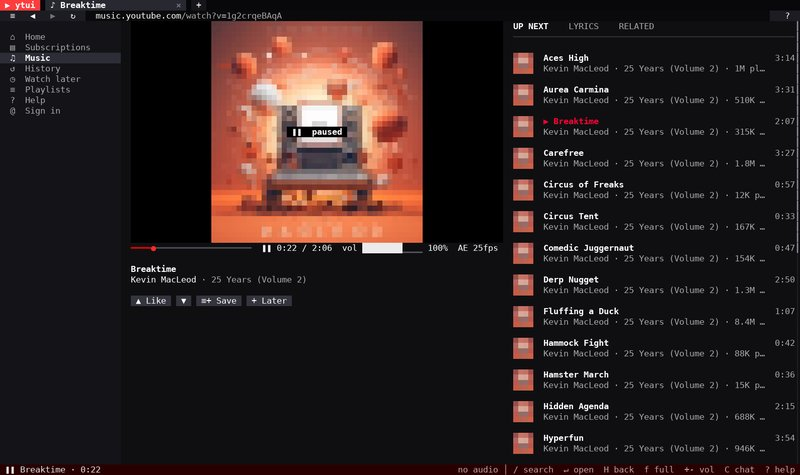
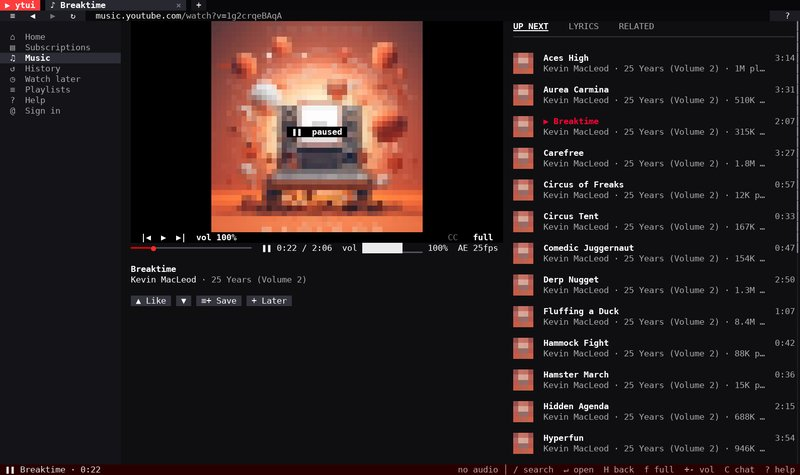
Screenshots and SEO tags show the player controls (#12)
* Screenshots and SEO tags show the player controls

Retake the half-block (Big Buck Bunny), captions (Sintel) and music
player (Breaktime, Kevin MacLeod) screenshots paused, so the controls
show on the video, and rebuild the social preview from the new
half-block shot. Alt text and captions follow the new pictures.

Meta and og descriptions, the JSON-LD description, features and
screenshots, the site description, and the Playback and Keys page
descriptions now mention the player controls. A feature card, a FAQ
entry (visible and in FAQPage) and a README bullet describe them. Doc
pages get og:image size and alt tags.

* Name the keys the player controls have; previous has none

* Page titles: home 60 chars, docs index 18

---------

Changed region(s): [[0.25, 0.4716, 0.5312, 0.5305], [0.5938, 0.4716, 0.625, 0.5305], [0.6562, 0.0589, 0.6875, 0.0884]]

diff --git a/docs/index.html b/docs/index.html
@@ -6,8 +6,8 @@ layout: null
 <head>
 <meta charset="utf-8">
 <meta name="viewport" content="width=device-width, initial-scale=1">
-<title>ytui: watch YouTube in the terminal (TUI client for Windows, Linux, macOS)</title>
-<meta name="description" content="ytui is a free, open-source terminal YouTube and YouTube Music client. Search and watch YouTube in your terminal as 24-bit colour half blocks, at 60 fps. Windows, Linux and macOS.">
+<title>ytui: watch YouTube in the terminal on Windows, Linux, macOS</title>
+<meta name="description" content="Free, open-source YouTube and YouTube Music in the terminal: 60 fps video in 24-bit colour, with YouTube-style player controls. Windows, Linux and macOS.">
 <link rel="canonical" href="https://bong-water-water-bong.github.io/ytui/">
 <meta name="theme-color" content="#e8eaee" media="(prefers-color-scheme: light)">
 <meta name="theme-color" content="#16181d" media="(prefers-color-scheme: dark)">
@@ -15,14 +15,14 @@ layout: null
 <meta property="og:type" content="website">
 <meta property="og:site_name" content="ytui">
 <meta property="og:title" content="ytui: watch YouTube in the terminal">
-<meta property="og:description" content="A terminal YouTube client. Play video as 24-bit colour half blocks at 60 fps, on Windows, Linux and macOS.">
+<meta property="og:description" content="A terminal YouTube and YouTube Music client. Play 60 fps video as 24-bit colour half blocks, with YouTube-style player controls, on Windows, Linux and macOS.">
 <meta property="og:url" content="https://bong-water-water-bong.github.io/ytui/">
 <meta property="og:image" content="https://bong-water-water-bong.github.io/ytui/social-preview.jpg">
 <meta property="og:image:width" content="1280">
 <meta property="og:image:height" content="640">
-<meta property="og:image:alt" content="ytui playing Big Buck Bunny as 24-bit colour half blocks in a terminal">
+<meta property="og:image:alt" content="ytui playing Big Buck Bunny as 24-bit colour half blocks in a terminal, paused with the player controls showing">
 <meta name="twitter:card" content="summary_large_image">
-<meta name="twitter:image:alt" content="ytui playing Big Buck Bunny as 24-bit colour half blocks in a terminal">
+<meta name="twitter:image:alt" content="ytui playing Big Buck Bunny as 24-bit colour half blocks in a terminal, paused with the player controls showing">
 
 <link rel="preconnect" href="https://fonts.googleapis.com">
 <link rel="preconnect" href="https://fonts.gstatic.com" crossorigin>
@@ -34,7 +34,7 @@ layout: null
   "@type": "SoftwareApplication",
   "name": "ytui",
   "alternateName": "YouTube TUI",
-  "description": "A terminal YouTube client: search, browse and watch YouTube in the terminal as 24-bit colour half blocks, at up to 60 fps.",
+  "description": "A terminal YouTube and YouTube Music client: search, browse and watch YouTube in the terminal as 24-bit colour half blocks, at up to 60 fps, with YouTube-style player controls.",
   "applicationCategory": "MultimediaApplication",
   "applicationSubCategory": "Video player",
   "operatingSystem": "Windows 10, Windows 11, Linux, macOS",
@@ -46,7 +46,8 @@ layout: null
   "screenshot": [
     "https://bong-water-water-bong.github.io/ytui/screenshots/home.jpg",
     "https://bong-water-water-bong.github.io/ytui/screenshots/halfblock.jpg",
-    "https://bong-water-water-bong.github.io/ytui/screenshots/captions.jpg"
+    "https://bong-water-water-bong.github.io/ytui/screenshots/captions.jpg",
+    "https://bong-water-water-bong.github.io/ytui/screenshots/music-player.jpg"
   ],
   "softwareVersion": "2026.10.17",
   "datePublished": "2026-10-16",
@@ -56,6 +57,7 @@ layout: null
   "featureList": [
     "Watch YouTube in the terminal as 24-bit colour half blocks",
     "60 fps playback through ffmpeg",
+    "YouTube-style player controls on the video: previous, play/pause, next, mute, captions and fullscreen",
     "Home, Trending, search, channels, playlists, comments and live chat",
     "YouTube Music: Home, Explore, charts, search, artists, albums, library, queue and lyrics",
     "Captions, autoplay, tabs and watch later",
@@ -90,6 +92,11 @@ layout: null
       "@type": "Question",
       "name": "Does ytui need a YouTube account or API key?",
       "acceptedAnswer": { "@type": "Answer", "text": "No. Searching, browsing and watching work signed out with no API key. Signing in with Google is optional and adds your recommendations, subscriptions, playlists, likes and comments." }
+    },
+    {
+      "@type": "Question",
+      "name": "Can I control playback with the mouse?",
+      "acceptedAnswer": { "@type": "Answer", "text": "Yes. Move the mouse over the video and ytui shows YouTube-style controls on it: previous, play/pause, next, mute, captions and fullscreen. Click the progress bar to seek and drag the volume slider. The keyboard works too: space pauses, comma and period seek, and f goes fullscreen." }
     },
     {
       "@type": "Question",
@@ -181,11 +188,11 @@ layout: null
       <p class="sub">Each cell is a truecolour half block: two pixels, one above the other. ytui sends only the cells that changed and sizes each frame to what your terminal can keep up with, so fast motion gets slightly coarser instead of dropping frames. <a href="guide/render-modes/">How it works</a>.</p>
       <div class="gallery">
         <figure>
-          <div class="frame"><img src="screenshots/halfblock.jpg" srcset="screenshots/halfblock-800.jpg 800w, screenshots/halfblock.jpg 1580w" decoding="async" sizes="(max-width: 860px) calc(100vw - 46px), 570px" width="1580" height="945" loading="lazy" alt="Big Buck Bunny's ear in front of an apple tree, drawn as half blocks, fullscreen and paused, with the player bar at the bottom"></div>
-          <figcaption><strong>Half blocks.</strong> Fullscreen and paused, with the player bar at the bottom.</figcaption>
+          <div class="frame"><img src="screenshots/halfblock.jpg" srcset="screenshots/halfblock-800.jpg 800w, screenshots/halfblock.jpg 1580w" decoding="async" sizes="(max-width: 860px) calc(100vw - 46px), 570px" width="1580" height="945" loading="lazy" alt="Big Buck Bunny sitting in a meadow, drawn as half blocks, fullscreen and paused, with the player controls and the player bar at the bottom"></div>
+          <figcaption><strong>Half blocks.</strong> Fullscreen and paused, with the player controls and the player bar at the bottom.</figcaption>
         </figure>
         <figure>
-          <div class="frame"><img src="screenshots/captions.jpg" srcset="screenshots/captions-800.jpg 800w, screenshots/captions.jpg 1580w" decoding="async" sizes="(max-width: 860px) calc(100vw - 46px), 570px" width="1580" height="945" loading="lazy" alt="Sintel fullscreen in a firelit close-up, with the English caption “You’re a fool for traveling alone, so completely unprepared.” in a black box"></div>
+          <div class="frame"><img src="screenshots/captions.jpg" srcset="screenshots/captions-800.jpg 800w, screenshots/captions.jpg 1580w" decoding="async" sizes="(max-width: 860px) calc(100vw - 46px), 570px" width="1580" height="945" loading="lazy" alt="Sintel fullscreen in a firelit close-up, with the English caption “You’re a fool for traveling alone, so completely unprepared.” in a black box, and the player controls below it"></div>
           <figcaption><strong>Captions.</strong> Bold white text in a solid black box. The first press of <kbd>S</kbd> picks your system language.</figcaption>
         </figure>
       </div>
@@ -200,6 +207,7 @@ layout: null
         <div><dt>YouTube Music</dt><dd>The <a href="guide/youtube-music/">Music</a> link opens YouTube Music in ytui: Home, Explore, charts, moods and genres, search, artists, albums, your library, and a music player with a queue, lyrics and related songs.</dd></div>
         <div><dt>Search, channels and playlists</dt><dd>Press <kbd>/</kbd> to search or paste a URL. Open channels, playlists, comments and live chat.</dd></div>
         <div><dt>60 fps playback through ffmpeg</dt><dd>Streams up to 720p by default, the lowest height YouTube serves at 60 fps.</dd></div>
+        <div><dt>Player controls</dt><dd>Move the mouse over the video for YouTube-style controls: previous, play/pause, next, mute, captions and fullscreen. Click the progress bar to seek, or drag the volume slider. Most have keys too: <kbd>space</kbd>, <kbd>n</kbd>, <kbd>M</kbd>, <kbd>S</kbd> and <kbd>f</kbd>.</dd></div>
         <div><dt>Captions</dt><dd>Press <kbd>S</kbd> for captions in your system language, then again to go through the other tracks. ytui draws them in a black box over the video, and your language choice is remembered for later videos.</dd></div>
         <div><dt>Optional Google sign-in</dt><dd>See your recommendations, subscriptions and playlists, and like and comment. Signing in also keeps videos playing when YouTube asks you to "confirm you're not a bot".</dd></div>
         <div><dt>Works over SSH and in tmux</dt><dd>ytui runs in any truecolour terminal. Inside tmux without truecolour, it tells you the one line to add to <code>~/.tmux.conf</code>.</dd></div>
@@ -235,6 +243,10 @@ layout: null
         <details>
           <summary>Does ytui need a YouTube account or API key?</summary>
           <p>No. Searching, browsing and watching work signed out, with no API key. Signing in with Google is optional. It adds your recommendations, subscriptions, playlists, likes and comments.</p>
+        </details>
+        <details>
+          <summary>Can I control playback with the mouse?</summary>
+          <p>Yes. Move the mouse over the video and ytui shows YouTube-style controls on it: previous, play/pause, next, mute, captions and fullscreen. Click the progress bar to seek and drag the volume slider. The keyboard works too: <kbd>space</kbd> pauses, <kbd>,</kbd> and <kbd>.</kbd> seek, and <kbd>f</kbd> goes fullscreen. See <a href="guide/playback/#player-controls">player controls</a>.</p>
         </details>
         <details>
           <summary>Which terminals does ytui work in?</summary>

diff --git a/docs/_layouts/doc.html b/docs/_layouts/doc.html
@@ -9,6 +9,10 @@
 <meta name="theme-color" content="#e8eaee" media="(prefers-color-scheme: light)">
 <meta name="theme-color" content="#16181d" media="(prefers-color-scheme: dark)">
 <meta property="og:image" content="{{ '/social-preview.jpg' | absolute_url }}">
+<meta property="og:image:width" content="1280">
+<meta property="og:image:height" content="640">
+<meta property="og:image:alt" content="ytui playing Big Buck Bunny as 24-bit colour half blocks in a terminal, paused with the player controls showing">
+<meta name="twitter:image:alt" content="ytui playing Big Buck Bunny as 24-bit colour half blocks in a terminal, paused with the player controls showing">
 <link rel="preconnect" href="https://fonts.googleapis.com">
 <link rel="preconnect" href="https://fonts.gstatic.com" crossorigin>
 <link href="https://fonts.googleapis.com/css2?family=Instrument+Sans:wght@400;600&family=Martian+Mono:wdth,wght@87.5,500;100,700&display=swap" rel="stylesheet">

diff --git a/README.md b/README.md
@@ -10,10 +10,10 @@ one small Rust binary, with yt-dlp and ffmpeg doing the heavy lifting.
 ![ytui's Home page, signed out, showing the Trending feed as a grid of half-block thumbnails](docs/screenshots/home.jpg)
 *Home, signed out: the Trending feed, with thumbnails drawn as half blocks.*
 
-![Big Buck Bunny's ear in front of an apple tree, drawn as half blocks, fullscreen and paused, with the player bar at the bottom](docs/screenshots/halfblock.jpg)
+![Big Buck Bunny sitting in a meadow, drawn as half blocks, fullscreen and paused, with the player controls and the player bar at the bottom](docs/screenshots/halfblock.jpg)
 *Fullscreen and paused: each cell is a `▀` half block, two pixels in 24-bit colour.*
 
-![Sintel fullscreen in a firelit close-up, with the English caption “You’re a fool for traveling alone, so completely unprepared.” in a black box](docs/screenshots/captions.jpg)
+![Sintel fullscreen in a firelit close-up, with the English caption “You’re a fool for traveling alone, so completely unprepared.” in a black box, and the player controls below it](docs/screenshots/captions.jpg)
 *Captions (`S`): bold white text in a solid black box, in your system language.*
 
 <sub>The half-block screenshot shows [Big Buck Bunny](https://peach.blender.org/), © Blender Foundation, licensed [CC BY 3.0](https://creativecommons.org/licenses/by/3.0/). The captions screenshot shows [Sintel](https://durian.blender.org/), © Blender Foundation, licensed [CC BY 3.0](https://creativecommons.org/licenses/by/3.0/).</sub>
@@ -24,6 +24,7 @@ one small Rust binary, with yt-dlp and ffmpeg doing the heavy lifting.
 - **60 fps playback through ffmpeg:** streams up to 720p, the lowest height YouTube serves at 60 fps.
 - **YouTube's layout, in the terminal:** Home with Trending, Music, Gaming, News and more. Also search, channels, playlists, comments and live chat.
 - **YouTube Music:** the Music link opens music.youtube.com in ytui: Home, Explore, charts, moods and genres, search, artists, albums, your library, and a music player with a queue, lyrics and related songs.
+- **Player controls on the video:** move the mouse over it for YouTube-style previous, play/pause, next, mute, captions and fullscreen buttons.
 - **Optional Google sign-in:** your recommendations, subscriptions, playlists, likes and comments.
 - **Captions, volume slider, autoplay, tabs and watch later.** Mouse and keyboard both work.
 - **Runs over SSH:** it works in any truecolour terminal.
@@ -131,7 +132,7 @@ music player with Up next, Lyrics and Related tabs. A song from an album or play
 that list; anywhere else it starts a radio. music.youtube.com links open there too.
 [More about YouTube Music in ytui](https://bong-water-water-bong.github.io/ytui/guide/youtube-music/).
 
-![The music player paused on Breaktime by Kevin MacLeod: the album cover as the picture, the song and album below, and the album's songs in Up next](docs/screenshots/music-player.jpg)
+![The music player paused on Breaktime by Kevin MacLeod: the album cover as the picture, the song and album below, and the album's songs in Up next, with the player controls on the cover](docs/screenshots/music-player.jpg)
 <sub>Shows *25 Years (Volume 2)* by [Kevin MacLeod](https://incompetech.com/), licensed [CC BY 4.0](https://creativecommons.org/licenses/by/4.0/).</sub>
 
 ## Colours under tmux

diff --git a/docs/guide/playback.md b/docs/guide/playback.md
@@ -1,6 +1,6 @@
 ---
 title: Playback and audio
-description: How ytui plays YouTube through ffmpeg at up to 60 fps, plus captions, audio output and volume.
+description: How ytui plays YouTube through ffmpeg at up to 60 fps, its YouTube-style player controls, captions, audio output and volume.
 ---
 
 ## ffmpeg
@@ -24,7 +24,7 @@ then off. The language you pick is remembered for later videos. ytui fetches the
 file itself and draws each caption as bold white text in a solid black box, with a blank row above
 and below.
 
-![Sintel fullscreen in a firelit close-up, with the English caption “You’re a fool for traveling alone, so completely unprepared.” in a black box]({{ '/screenshots/captions.jpg' | relative_url }})
+![Sintel fullscreen in a firelit close-up, with the English caption “You’re a fool for traveling alone, so completely unprepared.” in a black box, and the player controls below it]({{ '/screenshots/captions.jpg' | relative_url }})
 
 ## Player controls
 

diff --git a/docs/guide/watch-youtube-in-terminal.md b/docs/guide/watch-youtube-in-terminal.md
@@ -57,7 +57,7 @@ Download `ytui-<version>-macos-arm64.tar.gz` from the
 Video is drawn as truecolour half blocks, two pixels per cell, sized to your terminal. A bigger
 window gives a sharper picture. See [video in the terminal](../render-modes/) for how it works.
 
-![Big Buck Bunny's ear in front of an apple tree, drawn as half blocks, fullscreen and paused, with the player bar at the bottom]({{ '/screenshots/halfblock.jpg' | relative_url }})
+![Big Buck Bunny sitting in a meadow, drawn as half blocks, fullscreen and paused, with the player controls and the player bar at the bottom]({{ '/screenshots/halfblock.jpg' | relative_url }})
 
 ## Watch YouTube over SSH
 

diff --git a/docs/guide/youtube-music.md b/docs/guide/youtube-music.md
@@ -43,7 +43,7 @@ it are three tabs:
 When a song ends, the next one in the queue starts. The playback keys are the same as for videos
 (`space` pauses, `,` `.` seek 10 s, `+` `-` volume, `f` fullscreen).
 
-![The music player paused on Breaktime by Kevin MacLeod: the album cover as the picture, the song and album below, and the album's songs in Up next]({{ '/screenshots/music-player.jpg' | relative_url }})
+![The music player paused on Breaktime by Kevin MacLeod: the album cover as the picture, the song and album below, and the album's songs in Up next, with the player controls on the cover]({{ '/screenshots/music-player.jpg' | relative_url }})
 
 ## Links
 

diff --git a/docs/guide/render-modes.md b/docs/guide/render-modes.md
@@ -10,7 +10,7 @@ grid, `cols × 2*rows` pixels, so nothing is scaled again in the terminal.
 
 Thumbnails, avatars and banners are drawn the same way.
 
-![Big Buck Bunny's ear in front of an apple tree, drawn as half blocks, fullscreen and paused, with the player bar at the bottom]({{ '/screenshots/halfblock.jpg' | relative_url }})
+![Big Buck Bunny sitting in a meadow, drawn as half blocks, fullscreen and paused, with the player controls and the player bar at the bottom]({{ '/screenshots/halfblock.jpg' | relative_url }})
 
 ## Why it stays smooth
 

diff --git a/docs/guide/keys.md b/docs/guide/keys.md
@@ -1,6 +1,6 @@
 ---
 title: Keys
-description: Every ytui keyboard shortcut for browsing, playback, volume, captions and the picture.
+description: Every ytui keyboard shortcut for browsing, playback, volume, captions and the picture, plus the mouse and player controls.
 ---
 
 Press `?` in ytui to see these at any time. The mouse works too: click anything, scroll with the wheel, and click

diff --git a/docs/guide/index.md b/docs/guide/index.md
@@ -1,5 +1,5 @@
 ---
-title: ytui docs
+title: ytui documentation
 description: How to install ytui, watch YouTube in your terminal, see how video is drawn, and set up sign-in and playback.
 ---
 
